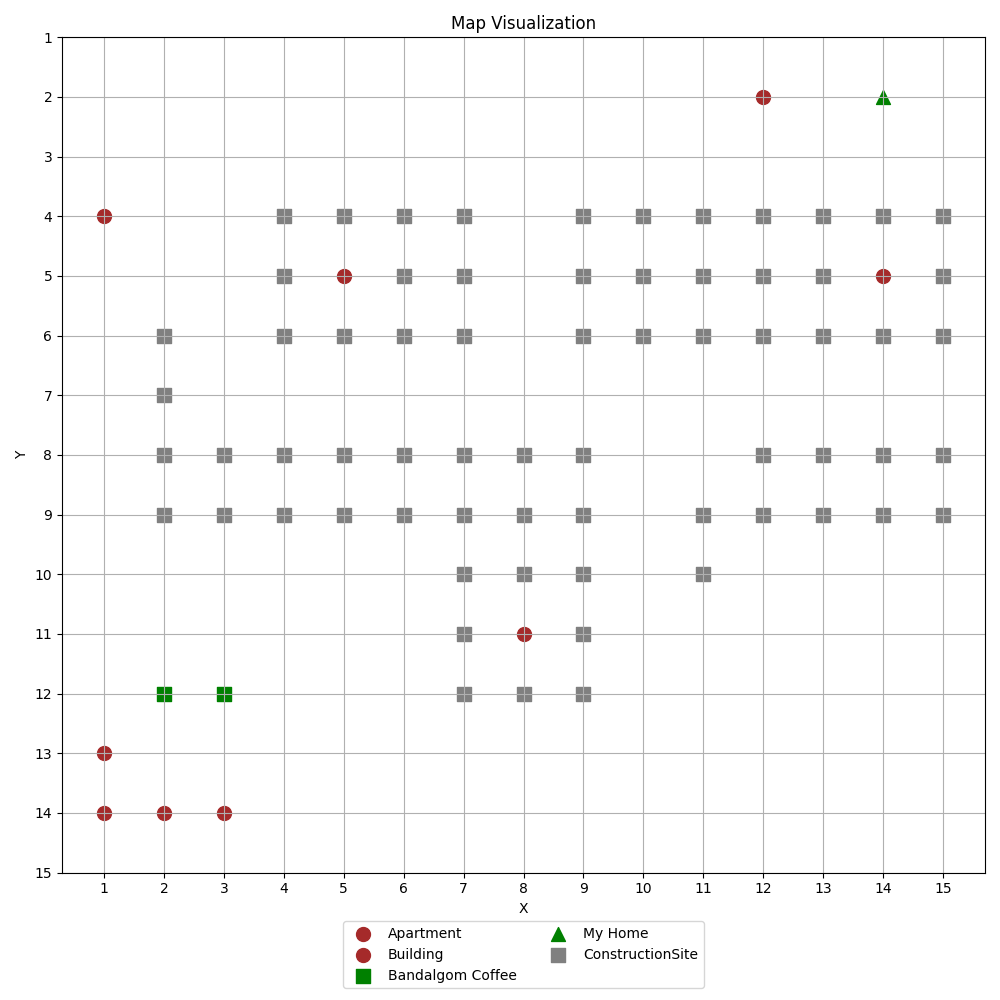
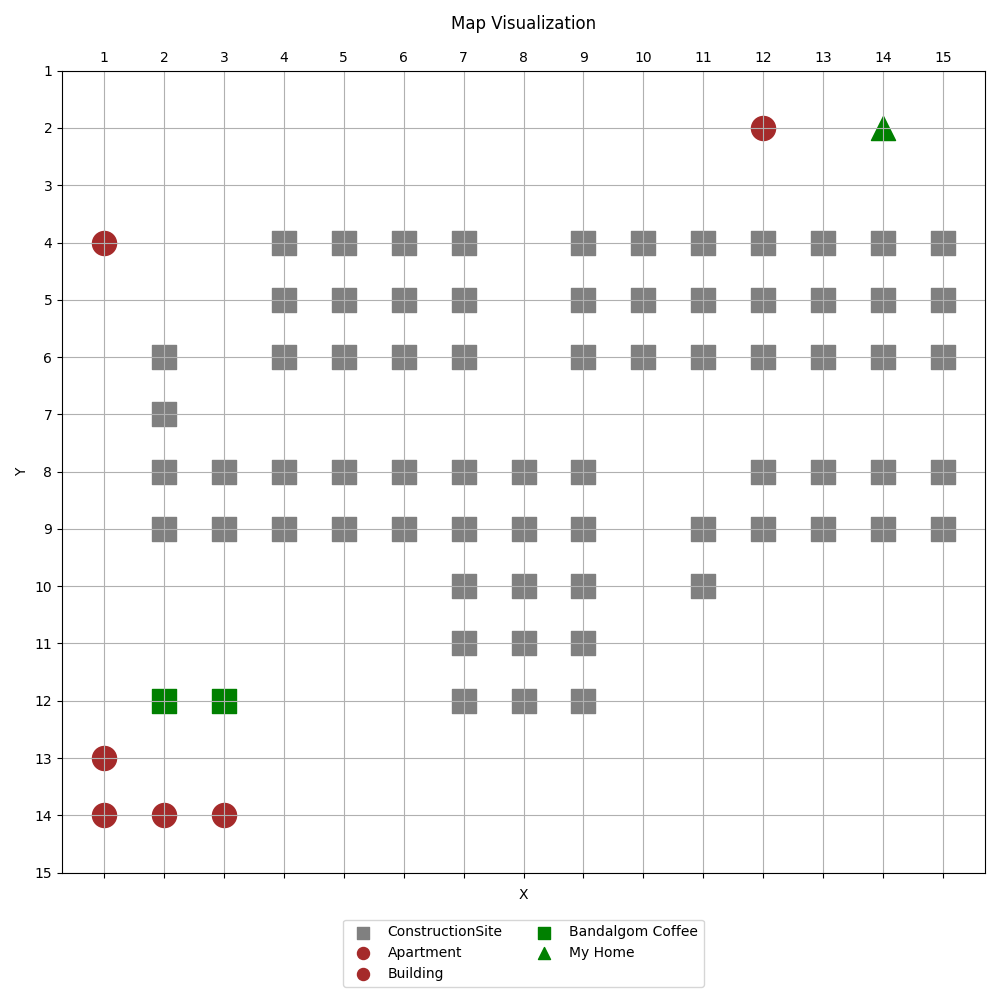
feedback modify task2

diff --git a/js/map_draw.py b/js/map_draw.py
@@ -23,36 +23,51 @@ symbols = {
 # 그래프 생성: 10인치 x 10인치로 사이즈 설정
 plt.figure(figsize=(10, 10))
 
-# 구조물별 시각화
+# 1. 공사장 먼저 시각화 (무조건 우선)
+construction_all = plot_data[plot_data["ConstructionSite"] == 1]
+plt.scatter(construction_all["x"], construction_all["y"],
+            marker=symbols["ConstructionSite"]["marker"],
+            color=symbols["ConstructionSite"]["color"],
+            label=symbols["ConstructionSite"]["label"],
+            s=300)
+
+# 2. 구조물 시각화 (공사장이 아닌 경우만)
 for struct_type in ["Apartment", "Building", "BandalgomCoffee", "MyHome"]:
-    data = plot_data[plot_data["struct"] == struct_type]
+    data = plot_data[
+        (plot_data["struct"] == struct_type) &
+        (plot_data["ConstructionSite"] == 0)  # 공사장 아닌 셀만 시각화
+    ]
     plt.scatter(data["x"], data["y"],
                 marker=symbols[struct_type]["marker"],
                 color=symbols[struct_type]["color"],
                 label=symbols[struct_type]["label"],
-                s=100)
+                s=300)
 
-# 6. ConstructionSite만 있는 셀
-construction_only = plot_data[plot_data["struct"].isna() & (plot_data["ConstructionSite"] == 1)]
-plt.scatter(construction_only["x"], construction_only["y"],
-            marker=symbols["ConstructionSite"]["marker"],
-            color=symbols["ConstructionSite"]["color"],
-            label=symbols["ConstructionSite"]["label"],
-            s=100)
 
-# 7. y축 상하반전 및 눈금/격자 설정
+# 8. y축 상하 반전 및 그리드
 plt.gca().invert_yaxis()
 plt.grid(True)
-plt.xticks(range(merged["x"].min(), merged["x"].max() + 1))
-plt.yticks(range(merged["y"].min(), merged["y"].max() + 1))
-plt.title("Map Visualization")
+
+# 9. 축 범위 및 눈금 설정
+x_min, x_max = merged["x"].min(), merged["x"].max()
+y_min, y_max = merged["y"].min(), merged["y"].max()
+plt.xticks(ticks=range(x_min, x_max + 1), labels=[""] * (x_max - x_min + 1))
+plt.yticks(range(y_min, y_max + 1))
+
+# ✅ x좌표를 플롯 내부의 상단에 추가 (y_max보다 약간 위에 표시)
+top_y = y_min - 0.1 # y축이 invert되어 있으므로 숫자가 클수록 아래임
+for x in range(x_min, x_max + 1):
+    plt.text(x, top_y, str(x), ha='center', va='bottom', fontsize=10,)
+
+
+
+# 10. 제목, 레이블, 범례
+plt.title("Map Visualization", pad = 30)
 plt.xlabel("X")
 plt.ylabel("Y")
+plt.legend(loc='upper center', bbox_to_anchor=(0.5, -0.05), ncol=2, markerscale = 0.5)
 
-# 8. 범례 (지도 가리지 않도록 하단 배치)
-plt.legend(loc='upper center', bbox_to_anchor=(0.5, -0.05), ncol=2)
-
-# 9. 출력 및 저장
+# 11. 출력 및 저장
 plt.tight_layout()
 plt.savefig("map.png")
 plt.show()
